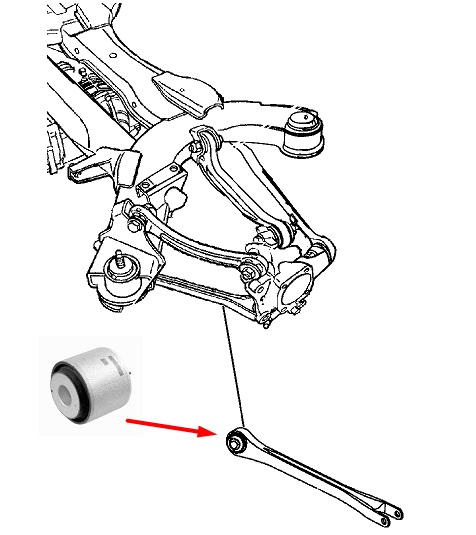
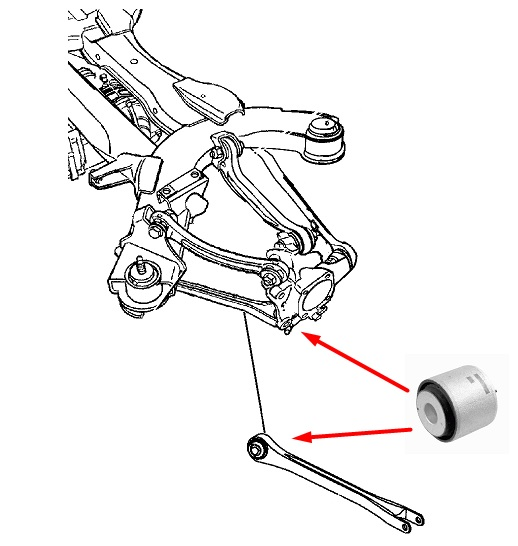
Add files via upload

diff --git a/scripts/data.js b/scripts/data.js
@@ -8,6 +8,13 @@ export const DATA = [
         title: 'Детали для ТО:',
         id: 'maintenance',
         sub_titles: [
+            {subtitle: 'ВАЖНО!!! Заправочные емкости', id: 'refueling tanks', items: [
+                    {
+                        item_image: './images/maintenance/refueling_tanks.jpg',
+                        item_code: '',
+                        item_note: ''
+                    },
+                ]},
             {subtitle: 'Фильтр маслянный', id: 'oil_filter', items: [
                     {
                         item_image: './images/maintenance/oil_filter_mopar_05281090.jpg',
@@ -96,7 +103,12 @@ export const DATA = [
                         item_image: './images/maintenance/spark_plug_mopar_SZFR5LP13G.jpg',
                         item_code: 'SZFR5LP13G (Mopar)',
                         item_note: ''
-                    }
+                    },
+                    {
+                        item_image: './images/maintenance/srapks_faq.jpg',
+                        item_code: '',
+                        item_note: ''
+                    },
                 ]},
             {subtitle: 'Ремень поликлинковый', id: 'belt', items: [
                     {
@@ -141,17 +153,22 @@ export const DATA = [
                     {
                         item_image: './images/maintenance/motorad_465-195.jpg',
                         item_code: '465-195 (Motorad)',
-                        item_note: ''
+                        item_note: 'Термостат'
                     },
                     {
                         item_image: './images/maintenance/thermostat_stant_14789.jpg',
                         item_code: '14789 (Stant)',
-                        item_note: ''
+                        item_note: 'Термостат'
                     },
                     {
                         item_image: './images/maintenance/thermostat_gates_33952.jpg',
                         item_code: '33952 (Gates)',
-                        item_note: ''
+                        item_note: 'Термостат'
+                    },
+                    {
+                        item_image: './images/maintenance/thermostat_chrysler_68210217aa.jpg',
+                        item_code: '68210217AA (Chrysler)',
+                        item_note: 'Термостат'
                     },
                     {
                         item_image: './images/cooling_system/thermostat_housting_dorman_902-698.jpg',
@@ -161,7 +178,7 @@ export const DATA = [
                     {
                         item_image: './images/engine/water_outlet_seal_fel-pro_35651.jpg',
                         item_code: '35651 (Fel-pro)',
-                        item_note: 'Прокладка верхнего патрубка (термостат)'
+                        item_note: 'Прокладка верхнего патрубка (термостата)'
                     },
                     {
                         item_image: './images/cooling_system/thermostat_housing_mopar_04781387aa.jpg',
@@ -275,21 +292,7 @@ export const DATA = [
                         item_code: 'VS50248 (Mahle)',
                         item_note: 'Прокладки клапанной крышки'
                     },
-                    {
-                        item_image: './images/engine/intake_plenum_gasket_mahle__ms19537.jpg',
-                        item_code: 'MS19537 (Mahle)',
-                        item_note: 'Прокладка впускного коллектора'
-                    },
-                    {
-                        item_image: './images/engine/intake_manifold_gasket_mahle_ms16210.jpg',
-                        item_code: 'MS16210 (Mahle)',
-                        item_note: 'Прокладки коллектора ДВС (2шт)'
-                    },
-                    {
-                        item_image: './images/engine/gasket_set_fel-pro_ms921651.jpg',
-                        item_code: 'MS921651 (Fel-pro)',
-                        item_note: 'Коплект прокладок коллектора'
-                    },
+
                     {
                         item_image: './images/engine/water_outlet_seal_fel-pro_35631.jpg',
                         item_code: '35631 (Fel-pro)',
@@ -311,7 +314,38 @@ export const DATA = [
                         item_note: 'Прокладка масленного поддона 2005+'
                     },
                 ]},
-            {subtitle: 'Система подачи воздуха', id: ''},
+            {subtitle: 'Система подачи воздуха', id: 'air_supply_system', items: [
+                    {
+                        item_image: './images/engine/air_intake_temperature_sensor_mopar_04606487ab.jpg',
+                        item_code: '04606487AB (Mopar)',
+                        item_note: 'Датчик температуры воздуха'
+                    },
+                    {
+                        item_image: './images/engine/intake_plenum_gasket_mahle__ms19537.jpg',
+                        item_code: 'MS19537 (Mahle)',
+                        item_note: 'Прокладка впускного коллектора'
+                    },
+                    {
+                        item_image: './images/engine/intake_manifold_gasket_mahle_ms16210.jpg',
+                        item_code: 'MS16210 (Mahle)',
+                        item_note: 'Прокладки коллектора ДВС (2шт)'
+                    },
+                    {
+                        item_image: './images/engine/gasket_set_fel-pro_ms921651.jpg',
+                        item_code: 'MS921651 (Fel-pro)',
+                        item_note: 'Комплект прокладок коллектора'
+                    },
+                    {
+                        item_image: './images/engine/throttle_body_gasket_fel-pro_61230.jpg',
+                        item_code: '61230 (Fel-pro)',
+                        item_note: 'Прокладка дроссельной заслонки'
+                    },
+                    {
+                        item_image: './images/engine/throttle_body_gasket_mahle_g31666.jpg',
+                        item_code: 'G31666 (Mahle)',
+                        item_note: 'Прокладка дроссельной заслонки'
+                    },
+                ]},
             {subtitle: 'Механизм газораспределения', id: 'timing', items: [
                     {
                         item_image: './images/engine/timing_kit_gates_tck295a.jpg',
@@ -344,9 +378,72 @@ export const DATA = [
                         item_note: ''
                     },
                 ]},
-            {subtitle: 'Блок-картер', id: ''},
-            {subtitle: 'Кривошипношатунный механизм', id: ''},
-            {subtitle: 'Система смазки', id: ''},
+            {subtitle: 'Блок-картер', id: 'crankcase_block', items: [
+                    {
+                        item_image: './images/engine/coolant_temperature_sensor_mopar_05269870ab.jpg',
+                        item_code: '05269870AB (Mopar)',
+                        item_note: 'Датчик температуры охлаждающей жидкости'
+                    },
+                    {
+                        item_image: './images/engine/valve_pcv_mopar_04792962aa.jpg',
+                        item_code: '04792962AA (Mopar)',
+                        item_note: 'Клапан PCV'
+                    },
+                    {
+                        item_image: './images/engine/oil_pressure_sender_standart_ps287t.jpg',
+                        item_code: 'PS287T (Standart)',
+                        item_note: 'Датчик давления масла'
+                    },
+                    {
+                        item_image: './images/engine/oil_pressure_sender_bmw_12617513068.jpg',
+                        item_code: '12617513068 (BMW)',
+                        item_note: 'Датчик давления масла'
+                    },
+                    {
+                        item_image: './images/engine/oil_pressure_sender_mopar_05149098aa.jpg',
+                        item_code: '05149098AA (Mopar)',
+                        item_note: 'Датчик давления масла'
+                    },
+                    {
+                        item_image: './images/engine/oil_dipstick_chrysler_04792670ab.jpg',
+                        item_code: '04792670AB (Chrysler)',
+                        item_note: 'Маслянный щуп'
+                    },
+                ]},
+            {subtitle: 'Кривошипношатунный механизм', id: 'crank_mechanism', items: [
+                    {
+                        item_image: './images/engine/harmonic_balanser_mopar_04792989aa.jpg',
+                        item_code: '04792989AA (Mopar)',
+                        item_note: 'Шкив коленвала'
+                    },
+                    {
+                        item_image: './images/engine/harmonic_balanser_nty_rkp-ch-021.jpg',
+                        item_code: 'RKP-CH-021 (NTY)',
+                        item_note: 'Шкив коленвала'
+                    },
+                    {
+                        item_image: './images/engine/crankshaft_seal_mopar_04792317ab.jpg',
+                        item_code: '04792317AB (Mopar)',
+                        item_note: 'Сальник коленвала (ТОЛЬКО ОРИГИНАЛ)'
+                    },
+                    {
+                        item_image: './images/engine/connecting_rod_bearing_enginetech_bb103jstd.jpg',
+                        item_code: 'BB103JSTD (Enginetech)',
+                        item_note: 'Вкладыши коленвала (Стандарт)'
+                    },
+                ]},
+            {subtitle: 'Система смазки', id: 'lubrication_system', items: [
+                    {
+                        item_image: './images/engine/oil_pump_gasket_mopar_04648938ac.jpg',
+                        item_code: '04648938AC (Mopar)',
+                        item_note: 'Прокладка маслянного насоса'
+                    },
+                    {
+                        item_image: './images/engine/oil_pump_dnj_op1150.jpg',
+                        item_code: 'OP1150 (DNJ)',
+                        item_note: 'Маслянный насос'
+                    },
+                ]},
             {subtitle: 'Крепление двигателя', id: 'mount', items: [
                     {
                         item_image: './images/engine/motor_mount_anchor_3084.jpg',
@@ -410,7 +507,28 @@ export const DATA = [
                     },
 
                 ]},
-            {subtitle: 'Система очистки ОГ', id: ''},
+            {subtitle: 'Система очистки ОГ', id: 'exhaust_gas_cleaning_system', items: [
+                    {
+                        item_image: './images/engine/egr_valve_mopar_04861579ah.jpg',
+                        item_code: '04861579AH (Mopar)',
+                        item_note: 'Клапан EGR'
+                    },
+                    {
+                        item_image: './images/engine/egr_gasket_mopar_04891068ab.jpg',
+                        item_code: '04891068AB (Mopar)',
+                        item_note: 'Прокладка клапана EGR'
+                    },
+                    {
+                        item_image: './images/engine/egr_gasket_mopar_05277928.jpg',
+                        item_code: '05277928 (Mopar)',
+                        item_note: 'Прокладка клапана EGR'
+                    },
+                    {
+                        item_image: './images/engine/egr_gasket_fel-pro_70696.jpg',
+                        item_code: '70696 (Fel-pro)',
+                        item_note: 'Прокладка трубки клапана EGR'
+                    },
+                ]},
             {subtitle: 'Ременной привод', id: 'drive_pulleys', items: [
                     {
                         item_image: './images/engine/drive_pulleys_dayco_89007.jpg',
@@ -453,7 +571,33 @@ export const DATA = [
         title: 'Система охлаждения:',
         id: 'cooling_system',
         sub_titles: [
-            {subtitle: 'Термостат, прокладка', id: ''},
+            {subtitle: 'Термостат, прокладка', id: 'thermostat_pad', items: [
+                    {
+                        item_image: './images/maintenance/motorad_465-195.jpg',
+                        item_code: '465-195 (Motorad)',
+                        item_note: 'Термостат'
+                    },
+                    {
+                        item_image: './images/maintenance/thermostat_stant_14789.jpg',
+                        item_code: '14789 (Stant)',
+                        item_note: 'Термостат'
+                    },
+                    {
+                        item_image: './images/maintenance/thermostat_gates_33952.jpg',
+                        item_code: '33952 (Gates)',
+                        item_note: 'Термостат'
+                    },
+                    {
+                        item_image: './images/maintenance/thermostat_chrysler_68210217aa.jpg',
+                        item_code: '68210217AA (Chrysler)',
+                        item_note: 'Термостат'
+                    },
+                    {
+                        item_image: './images/engine/water_outlet_seal_fel-pro_35651.jpg',
+                        item_code: '35651 (Fel-pro)',
+                        item_note: 'Прокладка верхнего патрубка (термостата)'
+                    },
+                ]},
             {subtitle: 'Радиаторы маслянный, водяной', id: ''},
             {subtitle: 'Патрубки системы охлаждения', id: 'pipe_branch', items: [
                     {
@@ -664,6 +808,11 @@ export const DATA = [
                         item_code: 'D36мм-d16мм-2.5мм',
                         item_note: 'Шайбы в опору аммортизатора (с двух сторон)'
                     },
+                    {
+                        item_image: './images/chassis/support_spacer.jpg',
+                        item_code: '',
+                        item_note: 'Проставки для увеличения клиренса'
+                    },
                 ]},
             {subtitle: 'Амортизатор подвески', id: 'shock_absorber', items: [
                     {
@@ -677,6 +826,16 @@ export const DATA = [
                         item_note: ''
                     },
                     {
+                        item_image: './images/chassis/shiels_shock_absorber_dust_kyb_910023.jpg',
+                        item_code: '910023 (Kayaba)',
+                        item_note: 'Комплект (2 пыльника + 2 отбойника)'
+                    },
+                    {
+                        item_image: './images/chassis/shiels_shock_absorber_dust_moog_k201272.jpg',
+                        item_code: 'K201272 (Moog)',
+                        item_note: 'Комплект (пыльник + отбойник)'
+                    },
+                    {
                         item_image: './images/chassis/breakup_bolts_mopar_05013687ab.jpg',
                         item_code: '05013687 (Mopar)',
                         item_note: 'Развальные болты / Перед'
@@ -688,11 +847,6 @@ export const DATA = [
                     },
                 ]},
             {subtitle: 'Рычаги и тяги подвески', id: 'levers_and_pulls', items: [
-                    // {
-                    //     item_image: './images/chassis/front_suspension_arm_ball.jpg',
-                    //     item_code: '',
-                    //     item_note: 'шаровая опора'
-                    // },
                     {
                         item_image: './images/chassis/front_suspension_arm_big__silent_block.jpg',
                         item_code: 'CR0124RP (VTR)',
@@ -711,7 +865,7 @@ export const DATA = [
                     {
                         item_image: './images/chassis/rear_suspension_compression_link2.jpg',
                         item_code: '2975101 (Lemforder)',
-                        item_note: '"вилка" (1шт)'
+                        item_note: '"вилка" (2шт)'
                     },
                     {
                         item_image: './images/chassis/rear_suspension_cumber_link2.jpg',
@@ -721,7 +875,12 @@ export const DATA = [
                     {
                         item_image: './images/chassis/rear_suspension_link2.jpg',
                         item_code: '3475601 (Lemforder)',
-                        item_note: '"лодка" (1шт)'
+                        item_note: '"лодка" - плавающий сайлентблок (1шт)'
+                    },
+                    {
+                        item_image: './images/chassis/rear_beam_silent_block.jpg',
+                        item_code: '3475601 (Lemforder)',
+                        item_note: '"лодка" - балочный сайлентблок (1шт)'
                     },
                     {
                         item_image: './images/chassis/rear_suspension_tension_link2.jpg',

diff --git a/index.html b/index.html
@@ -17,7 +17,7 @@
 <div class="container" id="header">
     <div class="header_title">
         <div class="version">Mobile Version 2.4</div>
-        <div class="update">Обновлено: 2022-11-04</div>
+        <div class="update">Обновлено: 2022-11-06</div>
     </div>
     <div class="logo">
         <img src="./images/inside-placeholder-chrysler-logo.png" alt="logo">
